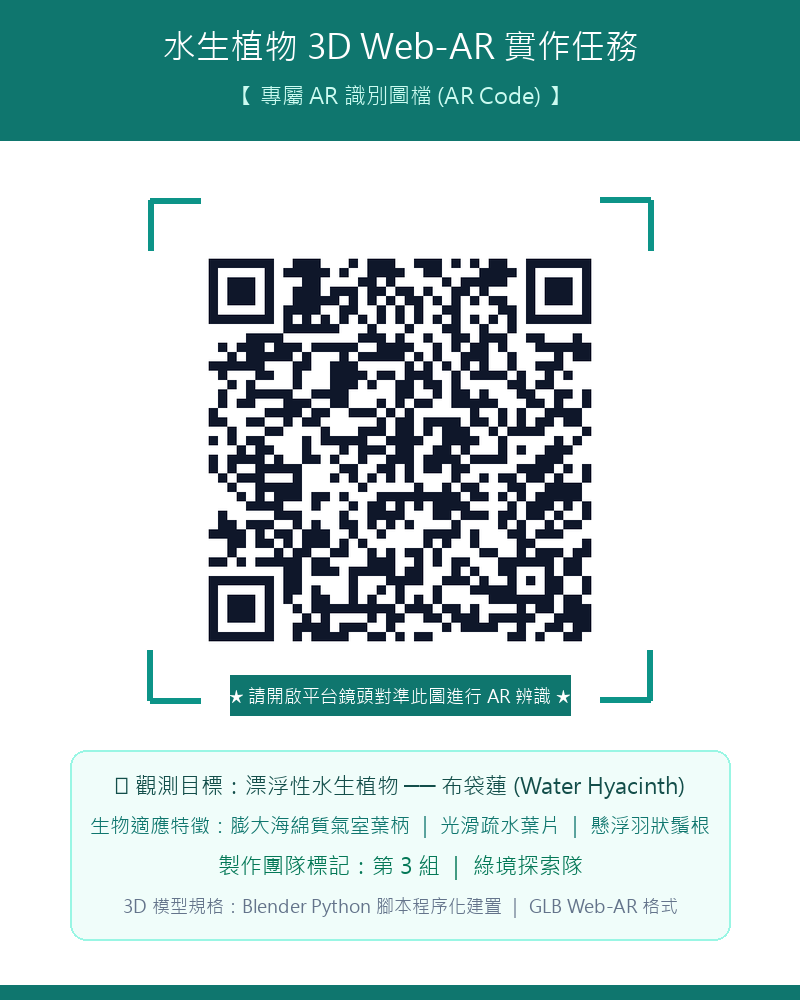
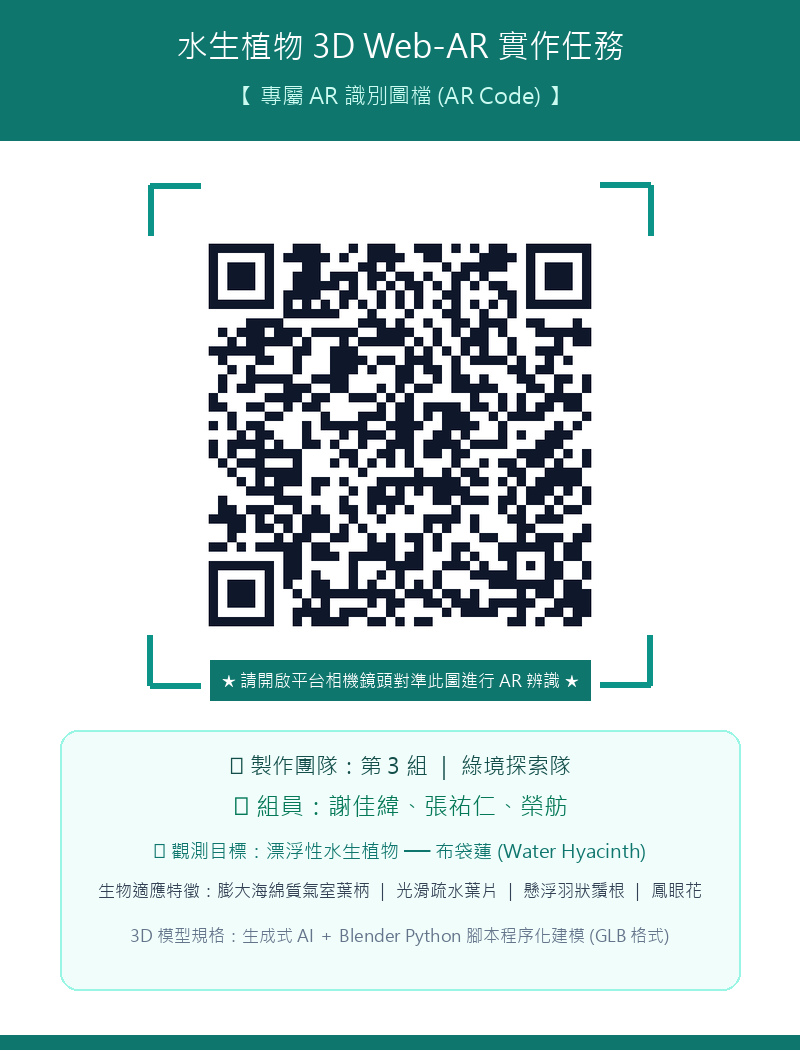
feat: 平台內容與繳交圖檔標註完整組員資訊 (謝佳緯、張祐仁、榮舫)

diff --git a/index.html b/index.html
@@ -60,6 +60,14 @@
       box-shadow: 0 4px 20px rgba(0, 0, 0, 0.5);
     }
 
+    .header-badges {
+      display: flex;
+      flex-wrap: wrap;
+      align-items: center;
+      gap: 6px;
+      margin-bottom: 6px;
+    }
+
     .group-pill {
       display: inline-flex;
       align-items: center;
@@ -71,7 +79,18 @@
       font-weight: 700;
       padding: 2px 10px;
       border-radius: 20px;
-      margin-bottom: 4px;
+    }
+
+    .members-pill {
+      display: inline-flex;
+      align-items: center;
+      background: rgba(56, 189, 248, 0.2);
+      border: 1px solid rgba(56, 189, 248, 0.5);
+      color: #7dd3fc;
+      font-size: 11px;
+      font-weight: 700;
+      padding: 2px 10px;
+      border-radius: 20px;
     }
 
     .app-title {
@@ -335,7 +354,10 @@
 
   <!-- 2. 頂部小組資訊卡片 -->
   <header class="top-header">
-    <div class="group-pill">👥 第 3 組 ｜ 綠境探索隊</div>
+    <div class="header-badges">
+      <div class="group-pill">👥 第 3 組 ｜ 綠境探索隊</div>
+      <div class="members-pill">🎓 組員：謝佳緯、張祐仁、榮舫</div>
+    </div>
     <div class="app-title">
       <span>布袋蓮 3D Web-AR 互動平台</span>
       <span style="font-size: 12px; color: #2dd4bf; font-weight: normal;">漂浮性水生植物</span>
